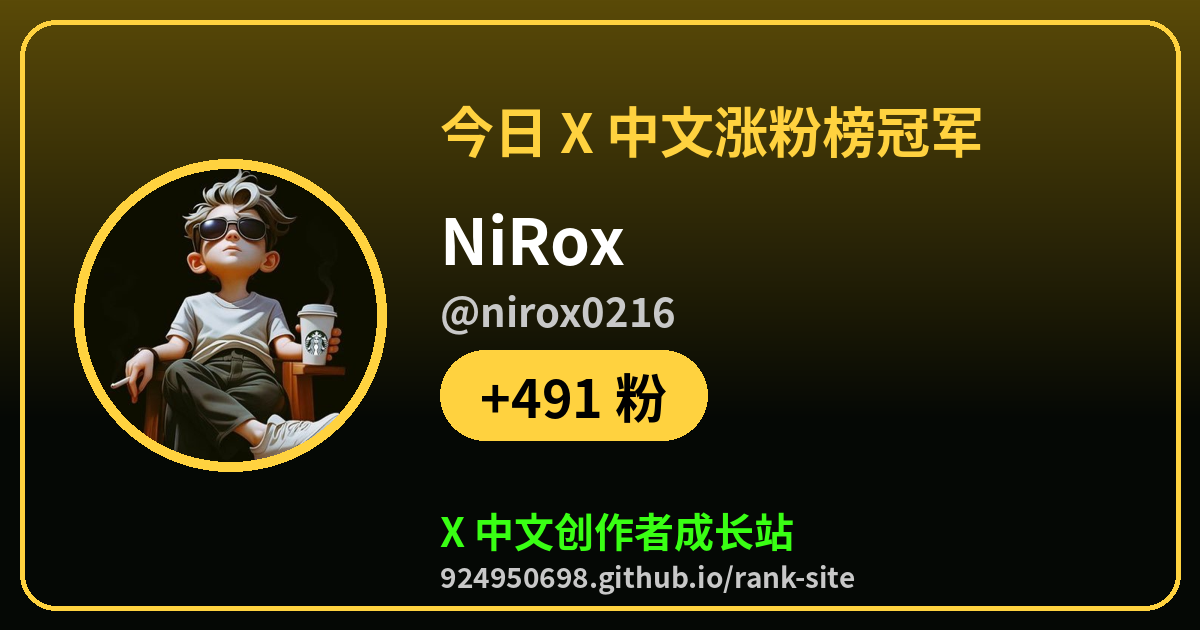
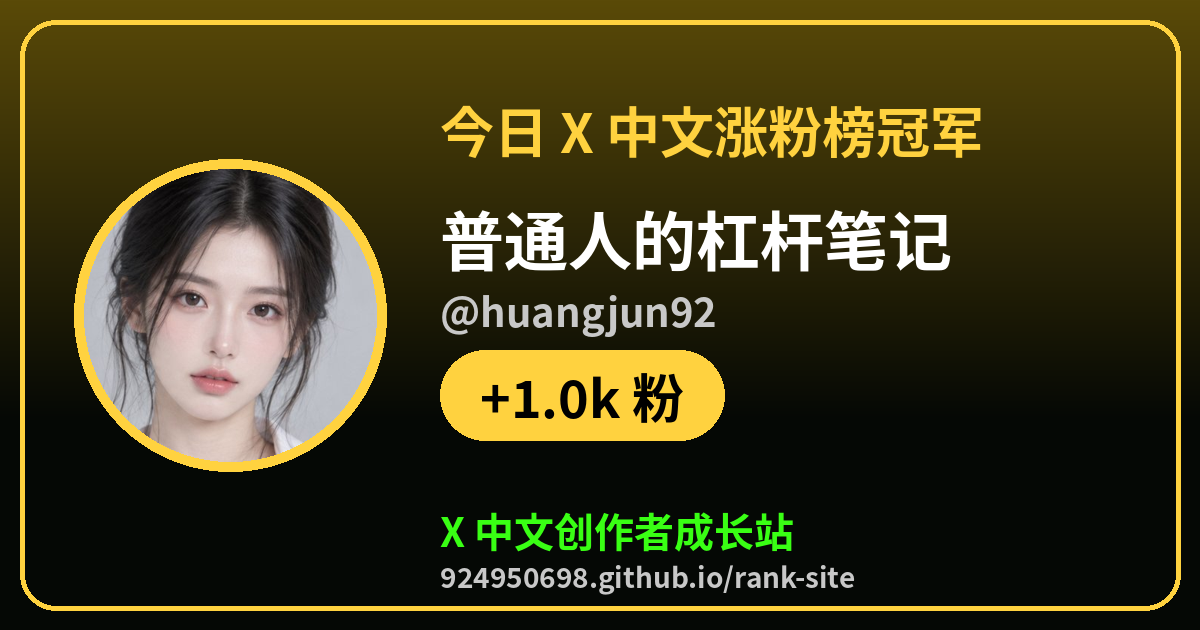
champ pages: 2026-10-18 17:28 CST

Changed region(s): [[0.0617, 0.2714, 0.3392, 0.754], [0.37, 0.3317, 0.8017, 0.6937]]

diff --git a/champ/growth.html b/champ/growth.html
@@ -1,7 +1,7 @@
 <!doctype html><html lang="zh-CN"><head><meta charset="utf-8"><meta name="viewport" content="width=device-width,initial-scale=1">
-<title>今日 X 中文涨粉榜冠军：NiRox（@nirox0216）</title><meta name="description" content="+491 粉，来看看今天谁在爆，你排第几">
-<meta property="og:type" content="website"><meta property="og:url" content="https://924950698.github.io/rank-site/champ/growth.html"><meta property="og:title" content="今日 X 中文涨粉榜冠军：NiRox（@nirox0216）"><meta property="og:description" content="+491 粉，来看看今天谁在爆，你排第几">
-<meta property="og:image" content="https://924950698.github.io/rank-site/champ/growth.png?v=20261018T0802"><meta name="twitter:card" content="summary_large_image"><meta name="twitter:site" content="@tigerr3aue">
-<meta name="twitter:title" content="今日 X 中文涨粉榜冠军：NiRox（@nirox0216）"><meta name="twitter:description" content="+491 粉，来看看今天谁在爆，你排第几"><meta name="twitter:image" content="https://924950698.github.io/rank-site/champ/growth.png?v=20261018T0802">
-<meta http-equiv="refresh" content="0;url=https://924950698.github.io/rank-site/?champ=nirox0216&amp;board=growth#rank"><script>location.replace("https://924950698.github.io/rank-site/?champ=nirox0216&board=growth#rank")</script></head>
-<body style="background:#000;color:#fff;font-family:sans-serif;text-align:center;padding:40px"><a href="https://924950698.github.io/rank-site/?champ=nirox0216&amp;board=growth#rank" style="color:#39ff14">去 X 中文创作者成长站看冠军卡片</a></body></html>
+<title>今日 X 中文涨粉榜冠军：普通人的杠杆笔记（@huangjun92）</title><meta name="description" content="+1.0k 粉，来看看今天谁在爆，你排第几">
+<meta property="og:type" content="website"><meta property="og:url" content="https://924950698.github.io/rank-site/champ/growth.html"><meta property="og:title" content="今日 X 中文涨粉榜冠军：普通人的杠杆笔记（@huangjun92）"><meta property="og:description" content="+1.0k 粉，来看看今天谁在爆，你排第几">
+<meta property="og:image" content="https://924950698.github.io/rank-site/champ/growth.png?v=20261018T0906"><meta name="twitter:card" content="summary_large_image"><meta name="twitter:site" content="@tigerr3aue">
+<meta name="twitter:title" content="今日 X 中文涨粉榜冠军：普通人的杠杆笔记（@huangjun92）"><meta name="twitter:description" content="+1.0k 粉，来看看今天谁在爆，你排第几"><meta name="twitter:image" content="https://924950698.github.io/rank-site/champ/growth.png?v=20261018T0906">
+<meta http-equiv="refresh" content="0;url=https://924950698.github.io/rank-site/?champ=huangjun92&amp;board=growth#rank"><script>location.replace("https://924950698.github.io/rank-site/?champ=huangjun92&board=growth#rank")</script></head>
+<body style="background:#000;color:#fff;font-family:sans-serif;text-align:center;padding:40px"><a href="https://924950698.github.io/rank-site/?champ=huangjun92&amp;board=growth#rank" style="color:#39ff14">去 X 中文创作者成长站看冠军卡片</a></body></html>

diff --git a/champ/exposure.html b/champ/exposure.html
@@ -1,7 +1,7 @@
 <!doctype html><html lang="zh-CN"><head><meta charset="utf-8"><meta name="viewport" content="width=device-width,initial-scale=1">
 <title>今日 X 中文曝光榜冠军：🍭吃货不怕胖（@Jadtrrguson）</title><meta name="description" content="6.8k 曝光，来看看今天谁在爆，你排第几">
 <meta property="og:type" content="website"><meta property="og:url" content="https://924950698.github.io/rank-site/champ/exposure.html"><meta property="og:title" content="今日 X 中文曝光榜冠军：🍭吃货不怕胖（@Jadtrrguson）"><meta property="og:description" content="6.8k 曝光，来看看今天谁在爆，你排第几">
-<meta property="og:image" content="https://924950698.github.io/rank-site/champ/exposure.png?v=20261018T0802"><meta name="twitter:card" content="summary_large_image"><meta name="twitter:site" content="@tigerr3aue">
-<meta name="twitter:title" content="今日 X 中文曝光榜冠军：🍭吃货不怕胖（@Jadtrrguson）"><meta name="twitter:description" content="6.8k 曝光，来看看今天谁在爆，你排第几"><meta name="twitter:image" content="https://924950698.github.io/rank-site/champ/exposure.png?v=20261018T0802">
+<meta property="og:image" content="https://924950698.github.io/rank-site/champ/exposure.png?v=20261018T0906"><meta name="twitter:card" content="summary_large_image"><meta name="twitter:site" content="@tigerr3aue">
+<meta name="twitter:title" content="今日 X 中文曝光榜冠军：🍭吃货不怕胖（@Jadtrrguson）"><meta name="twitter:description" content="6.8k 曝光，来看看今天谁在爆，你排第几"><meta name="twitter:image" content="https://924950698.github.io/rank-site/champ/exposure.png?v=20261018T0906">
 <meta http-equiv="refresh" content="0;url=https://924950698.github.io/rank-site/?champ=Jadtrrguson&amp;board=exposure#rank"><script>location.replace("https://924950698.github.io/rank-site/?champ=Jadtrrguson&board=exposure#rank")</script></head>
 <body style="background:#000;color:#fff;font-family:sans-serif;text-align:center;padding:40px"><a href="https://924950698.github.io/rank-site/?champ=Jadtrrguson&amp;board=exposure#rank" style="color:#39ff14">去 X 中文创作者成长站看冠军卡片</a></body></html>

diff --git a/champ/comments.html b/champ/comments.html
@@ -1,7 +1,7 @@
 <!doctype html><html lang="zh-CN"><head><meta charset="utf-8"><meta name="viewport" content="width=device-width,initial-scale=1">
 <title>今日 X 中文评论榜冠军：🍭吃货不怕胖（@Jadtrrguson）</title><meta name="description" content="61 评论，来看看今天谁在爆，你排第几">
 <meta property="og:type" content="website"><meta property="og:url" content="https://924950698.github.io/rank-site/champ/comments.html"><meta property="og:title" content="今日 X 中文评论榜冠军：🍭吃货不怕胖（@Jadtrrguson）"><meta property="og:description" content="61 评论，来看看今天谁在爆，你排第几">
-<meta property="og:image" content="https://924950698.github.io/rank-site/champ/comments.png?v=20261018T0802"><meta name="twitter:card" content="summary_large_image"><meta name="twitter:site" content="@tigerr3aue">
-<meta name="twitter:title" content="今日 X 中文评论榜冠军：🍭吃货不怕胖（@Jadtrrguson）"><meta name="twitter:description" content="61 评论，来看看今天谁在爆，你排第几"><meta name="twitter:image" content="https://924950698.github.io/rank-site/champ/comments.png?v=20261018T0802">
+<meta property="og:image" content="https://924950698.github.io/rank-site/champ/comments.png?v=20261018T0906"><meta name="twitter:card" content="summary_large_image"><meta name="twitter:site" content="@tigerr3aue">
+<meta name="twitter:title" content="今日 X 中文评论榜冠军：🍭吃货不怕胖（@Jadtrrguson）"><meta name="twitter:description" content="61 评论，来看看今天谁在爆，你排第几"><meta name="twitter:image" content="https://924950698.github.io/rank-site/champ/comments.png?v=20261018T0906">
 <meta http-equiv="refresh" content="0;url=https://924950698.github.io/rank-site/?champ=Jadtrrguson&amp;board=comments#rank"><script>location.replace("https://924950698.github.io/rank-site/?champ=Jadtrrguson&board=comments#rank")</script></head>
 <body style="background:#000;color:#fff;font-family:sans-serif;text-align:center;padding:40px"><a href="https://924950698.github.io/rank-site/?champ=Jadtrrguson&amp;board=comments#rank" style="color:#39ff14">去 X 中文创作者成长站看冠军卡片</a></body></html>

diff --git a/champ/rising.html b/champ/rising.html
@@ -1,7 +1,7 @@
 <!doctype html><html lang="zh-CN"><head><meta charset="utf-8"><meta name="viewport" content="width=device-width,initial-scale=1">
 <title>今日 X 中文新号进步榜冠军：Baozoupanpan（@Baozoupan）</title><meta name="description" content="+484 粉，来看看今天谁在爆，你排第几">
 <meta property="og:type" content="website"><meta property="og:url" content="https://924950698.github.io/rank-site/champ/rising.html"><meta property="og:title" content="今日 X 中文新号进步榜冠军：Baozoupanpan（@Baozoupan）"><meta property="og:description" content="+484 粉，来看看今天谁在爆，你排第几">
-<meta property="og:image" content="https://924950698.github.io/rank-site/champ/rising.png?v=20261018T0802"><meta name="twitter:card" content="summary_large_image"><meta name="twitter:site" content="@tigerr3aue">
-<meta name="twitter:title" content="今日 X 中文新号进步榜冠军：Baozoupanpan（@Baozoupan）"><meta name="twitter:description" content="+484 粉，来看看今天谁在爆，你排第几"><meta name="twitter:image" content="https://924950698.github.io/rank-site/champ/rising.png?v=20261018T0802">
+<meta property="og:image" content="https://924950698.github.io/rank-site/champ/rising.png?v=20261018T0906"><meta name="twitter:card" content="summary_large_image"><meta name="twitter:site" content="@tigerr3aue">
+<meta name="twitter:title" content="今日 X 中文新号进步榜冠军：Baozoupanpan（@Baozoupan）"><meta name="twitter:description" content="+484 粉，来看看今天谁在爆，你排第几"><meta name="twitter:image" content="https://924950698.github.io/rank-site/champ/rising.png?v=20261018T0906">
 <meta http-equiv="refresh" content="0;url=https://924950698.github.io/rank-site/?champ=Baozoupan&amp;board=rising#rank"><script>location.replace("https://924950698.github.io/rank-site/?champ=Baozoupan&board=rising#rank")</script></head>
 <body style="background:#000;color:#fff;font-family:sans-serif;text-align:center;padding:40px"><a href="https://924950698.github.io/rank-site/?champ=Baozoupan&amp;board=rising#rank" style="color:#39ff14">去 X 中文创作者成长站看冠军卡片</a></body></html>
